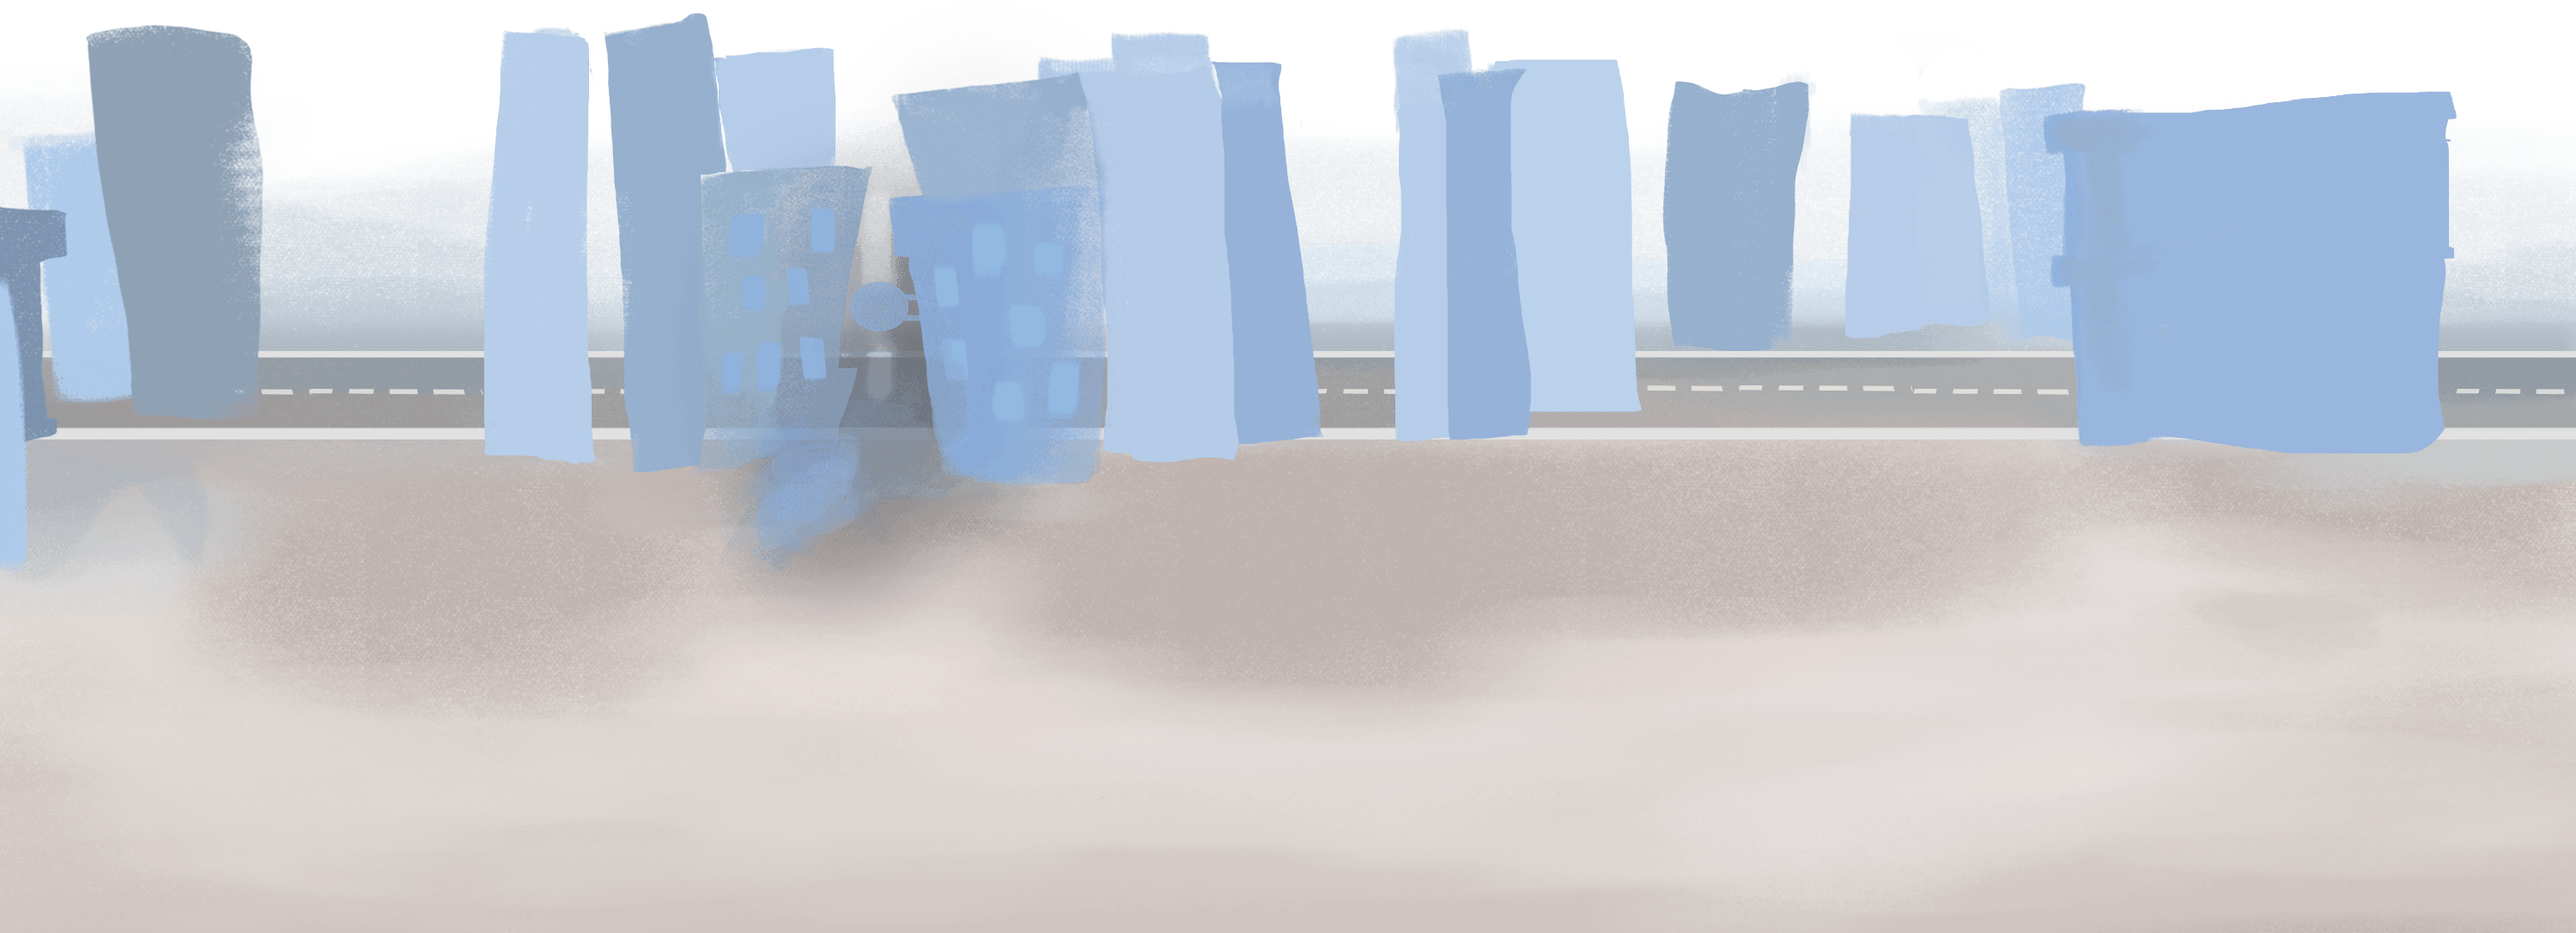
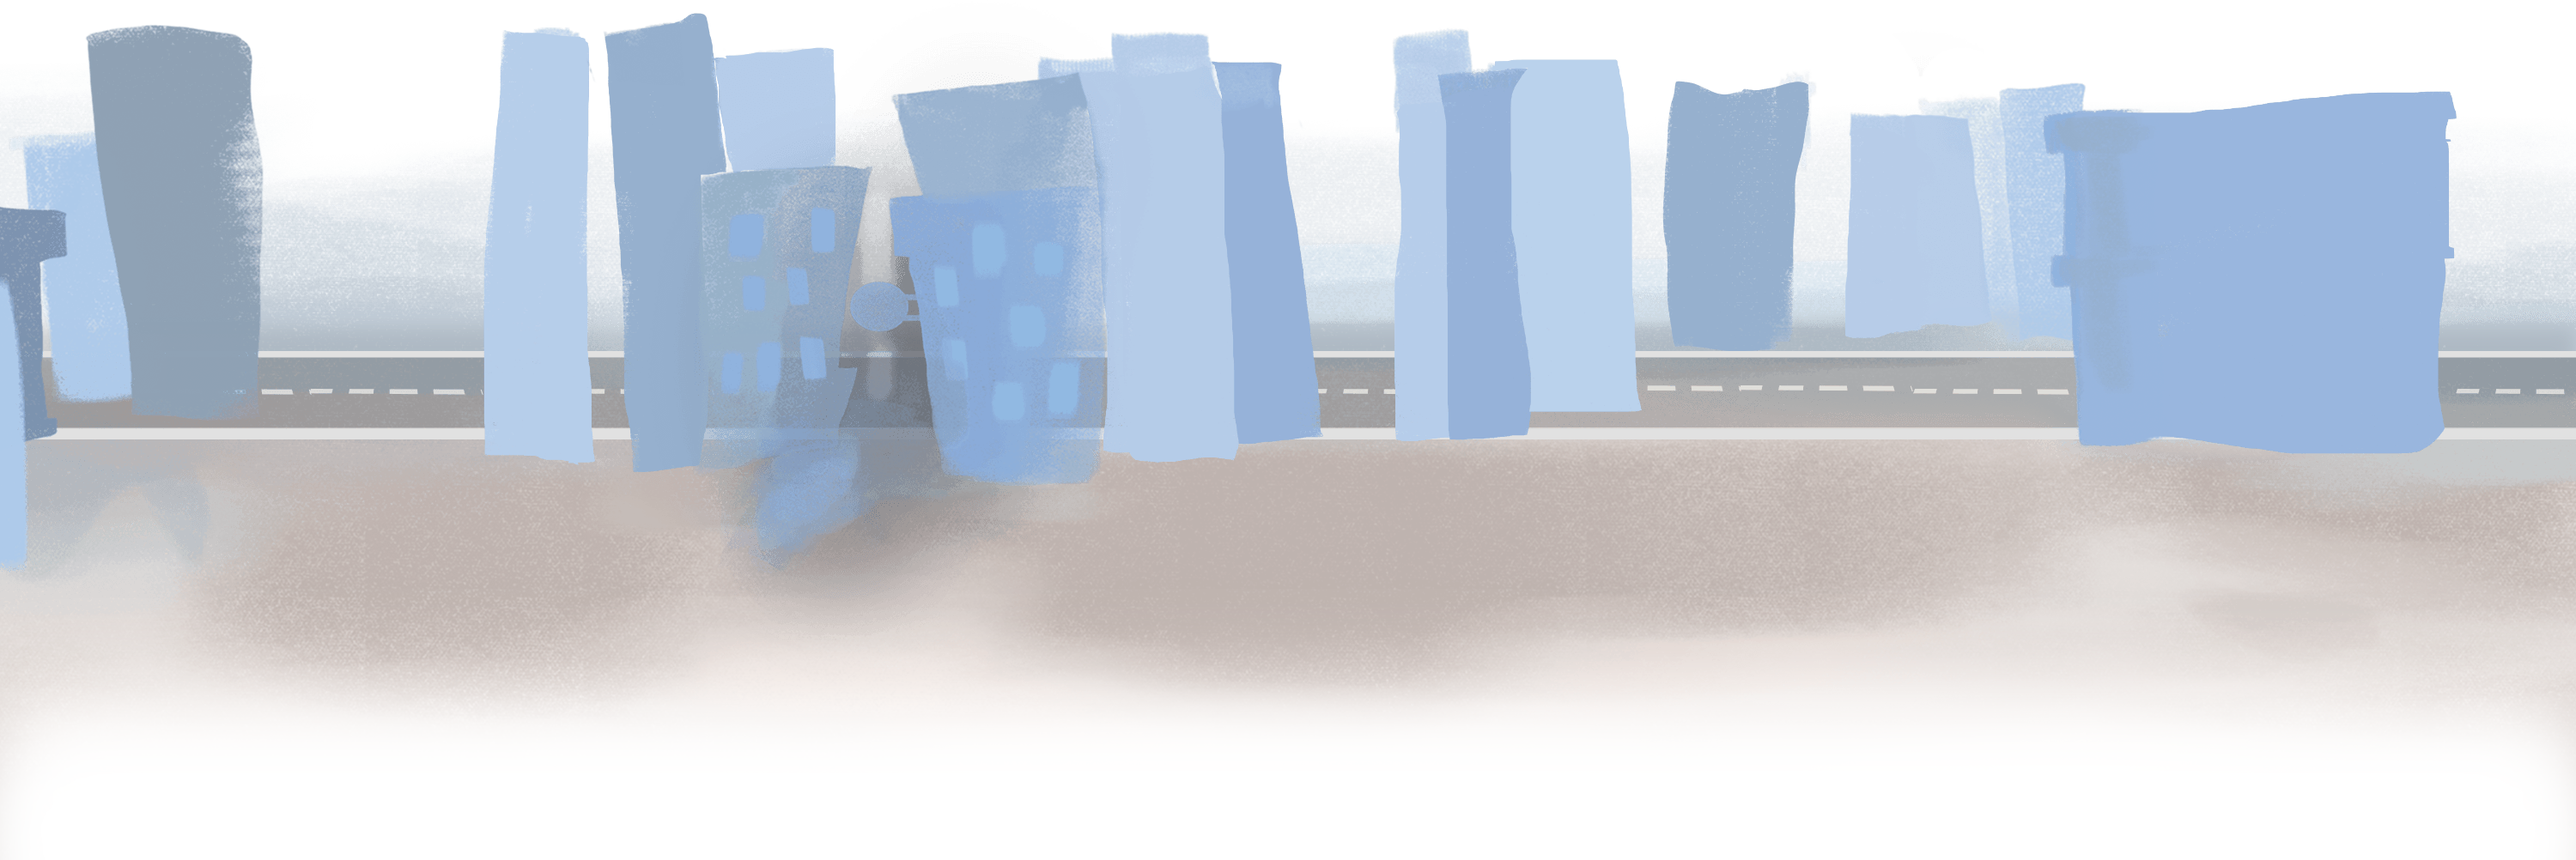
parallax main

diff --git a/js/scrollMagicAnimation.js b/js/scrollMagicAnimation.js
@@ -38,7 +38,7 @@ var scene_m1 = new ScrollMagic.Scene({
 
     var tl_2 = new TimelineMax()
     .add(TweenMax.fromTo('#mainpage_2', 1, 
-    { transform: 'translate(-50%, 5vh)' }, {  transform: 'translate(-50%, -35vh)' }))
+    { transform: 'translate(-50%, 5vh)' }, {  transform: 'translate(-50%, -42vh)' }))
     .add(TweenMax.to('#mainpage_2', 1, 
     {  filter: 'brightness(0.6)', ease: Sine.easeIn}))
     .add(TweenMax.to('#mainpage_2', 4, 
@@ -57,7 +57,7 @@ var scene_m1 = new ScrollMagic.Scene({
 
             var tl_3 = new TimelineMax()
             .add(TweenMax.fromTo('#mainpage_3', 1.3, 
-            { transform: 'translate(-50%, 20vh)' }, {  transform: 'translate(-50%, -35vh)' }))
+            { transform: 'translate(-50%, 20vh)' }, {  transform: 'translate(-50%, -50vh)' }))
             .add(TweenMax.to('#mainpage_3', 1.3, 
             {  filter: 'brightness(0.6)', ease: Power3.easeOut }))
             .add(TweenMax.to('#mainpage_3', 4, 
@@ -76,7 +76,7 @@ var scene_m1 = new ScrollMagic.Scene({
 
                     var tl_4 = new TimelineMax()
                     .add(TweenMax.fromTo('#mainpage_4', 0.7, 
-                    { transform: 'translate(-50%, -20vh)' }, {  transform: 'translate(-50%, -90vh)' }))
+                    { transform: 'translate(-50%, -20vh)' }, {  transform: 'translate(-50%, -104vh)' }))
                     .add(TweenMax.to('#mainpage_4', 0.5, 
                     {  filter: 'brightness(0.6)', ease: Power3.easeOut  }))
                     .add(TweenMax.to('#mainpage_4', 4, 

diff --git a/style.css b/style.css
@@ -102,16 +102,16 @@ header h1 {
 }
 
 
-#mainpage_1{position: fixed; top:0%; width:100vw; min-width:1800px; left:50%; z-index:-4;
+#mainpage_1{position: fixed; top:0%; width:100vw; min-width:1200px; left:50%; z-index:-4;
 visibility: visible; filter: brightness(1);
 }
-#mainpage_2{position: fixed; top:50%; width:160vw; min-width:1800px; left:50%; z-index:-3;
+#mainpage_2{position: fixed; top:50%; width:160vw; min-width:1200px; left:50%; z-index:-3;
 visibility: visible; filter: brightness(1);
 }
-#mainpage_3{position: fixed; top:50%; width:160vw; min-width:1800px; left:50%; z-index:-2;
+#mainpage_3{position: fixed; top:50%; width:160vw; min-width:1200px; left:50%; z-index:-2;
 visibility: visible; filter: brightness(1);
 }
-#mainpage_4{position: fixed; top:50%; width:160vw; min-width:2000px; left:50%; z-index:-1;
+#mainpage_4{position: fixed; top:50%; width:160vw; min-width:1600px; left:50%; z-index:-1;
 visibility: visible; filter: brightness(1);
 }
 
